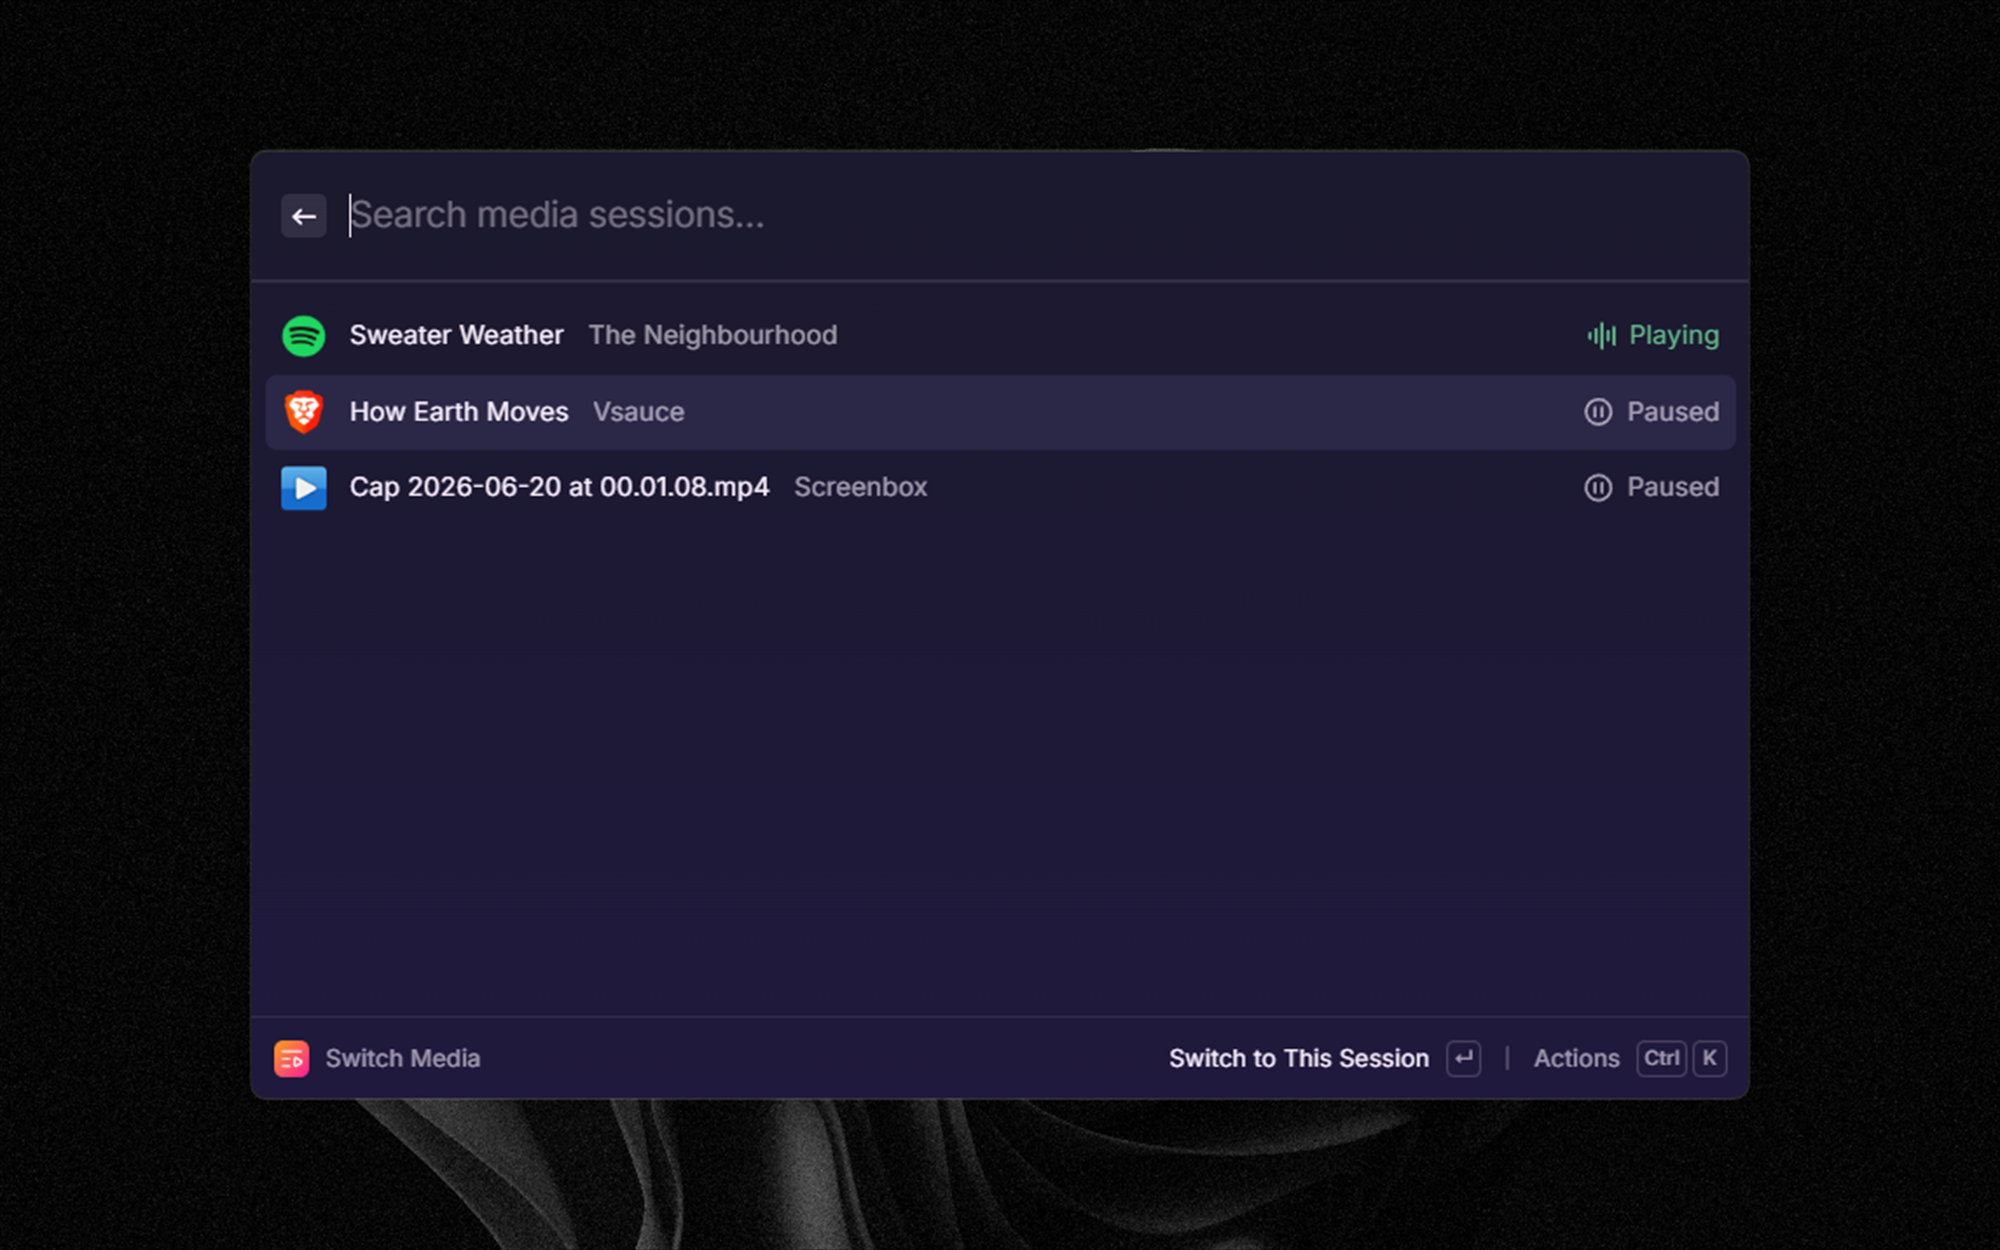
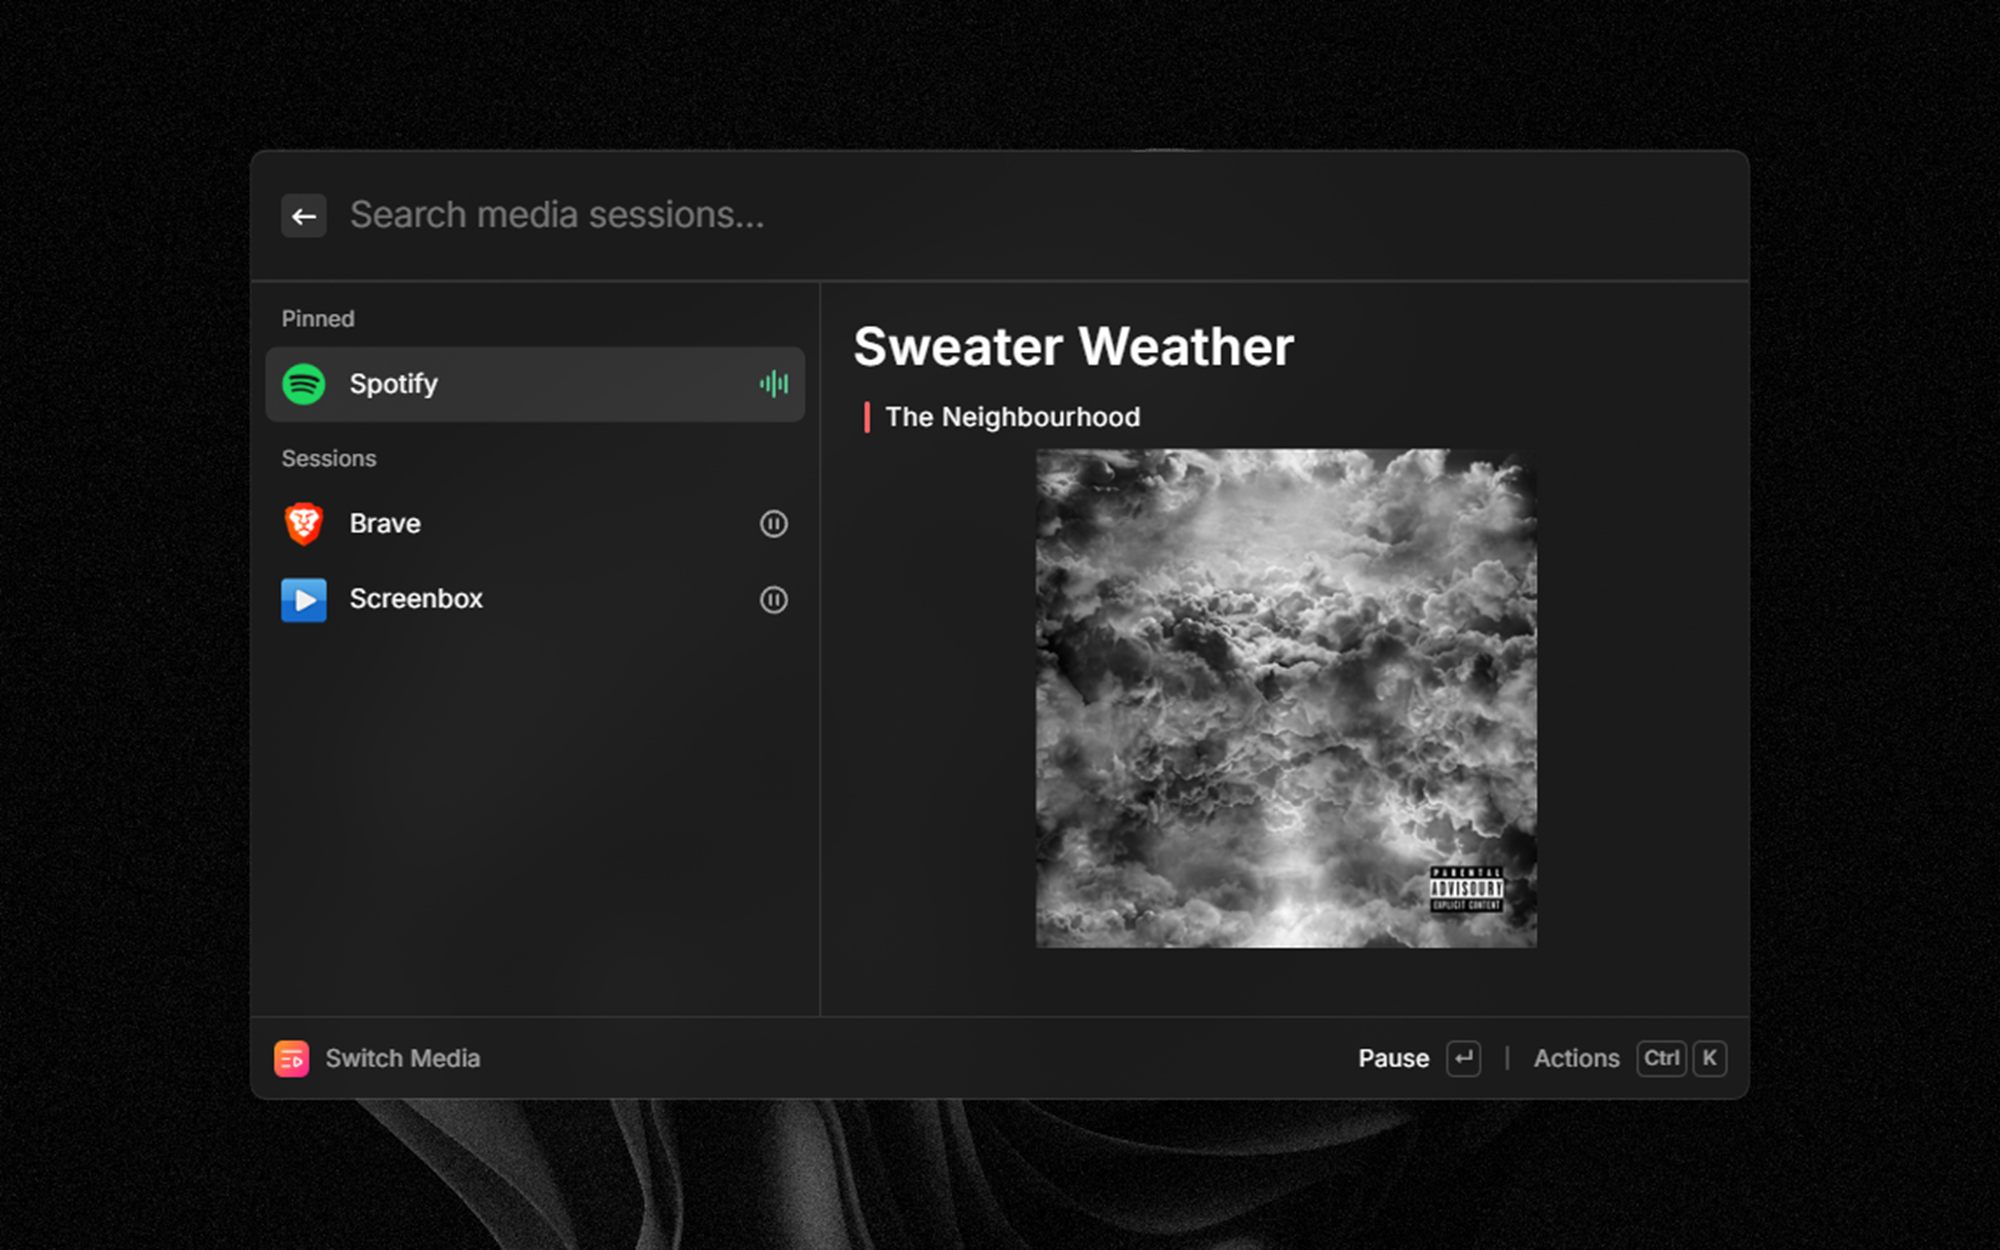
Update CHANGELOG.md and screenshots

diff --git a/CHANGELOG.md b/CHANGELOG.md
@@ -1,5 +1,23 @@
 # Media Switcher Changelog
 
+## [Detail view and enhancements] - {PR_MERGE_DATE}
+
+✨ New
+
+- Detail panel with session artwork (album covers, video thumbnails), auto-sized by aspect ratio with compact headings for long titles
+- `Group playing sessions at the top` preference (Playing section)
+- Pin/Unpin for apps, kept in a Pinned section above everything
+- List search now covers app name and artist, not just title
+
+💎 Improvements
+
+- Refreshes are faster: shortcut scanning and Store icon resolution moved out of the hot path and cached
+- Play/pause/switch confirmations resolve in under a second instead of up to 2.5s
+
+🐞 Fixes
+
+- Rapid Previous/Next no longer errors when the track changes mid-press
+
 ## [Initial Release] - 2026-09-11
 
 Initial version
